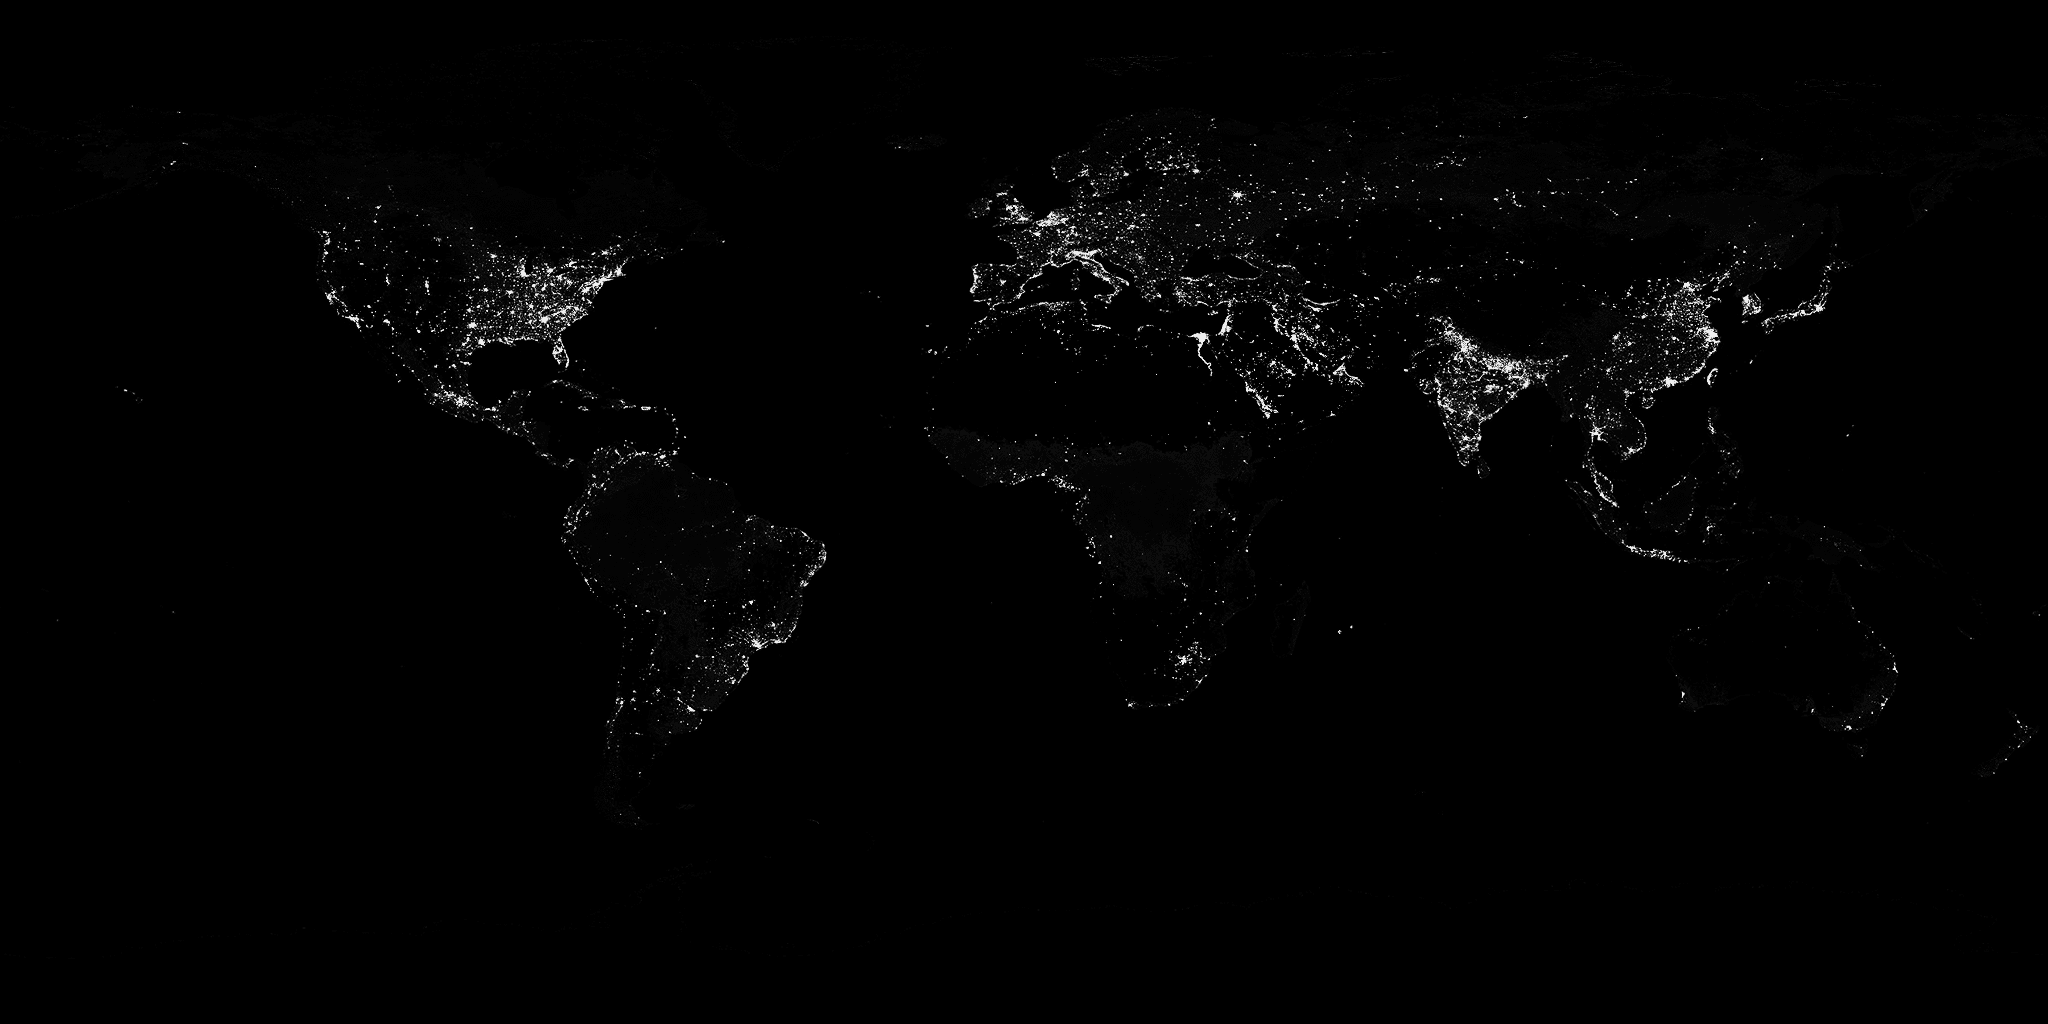
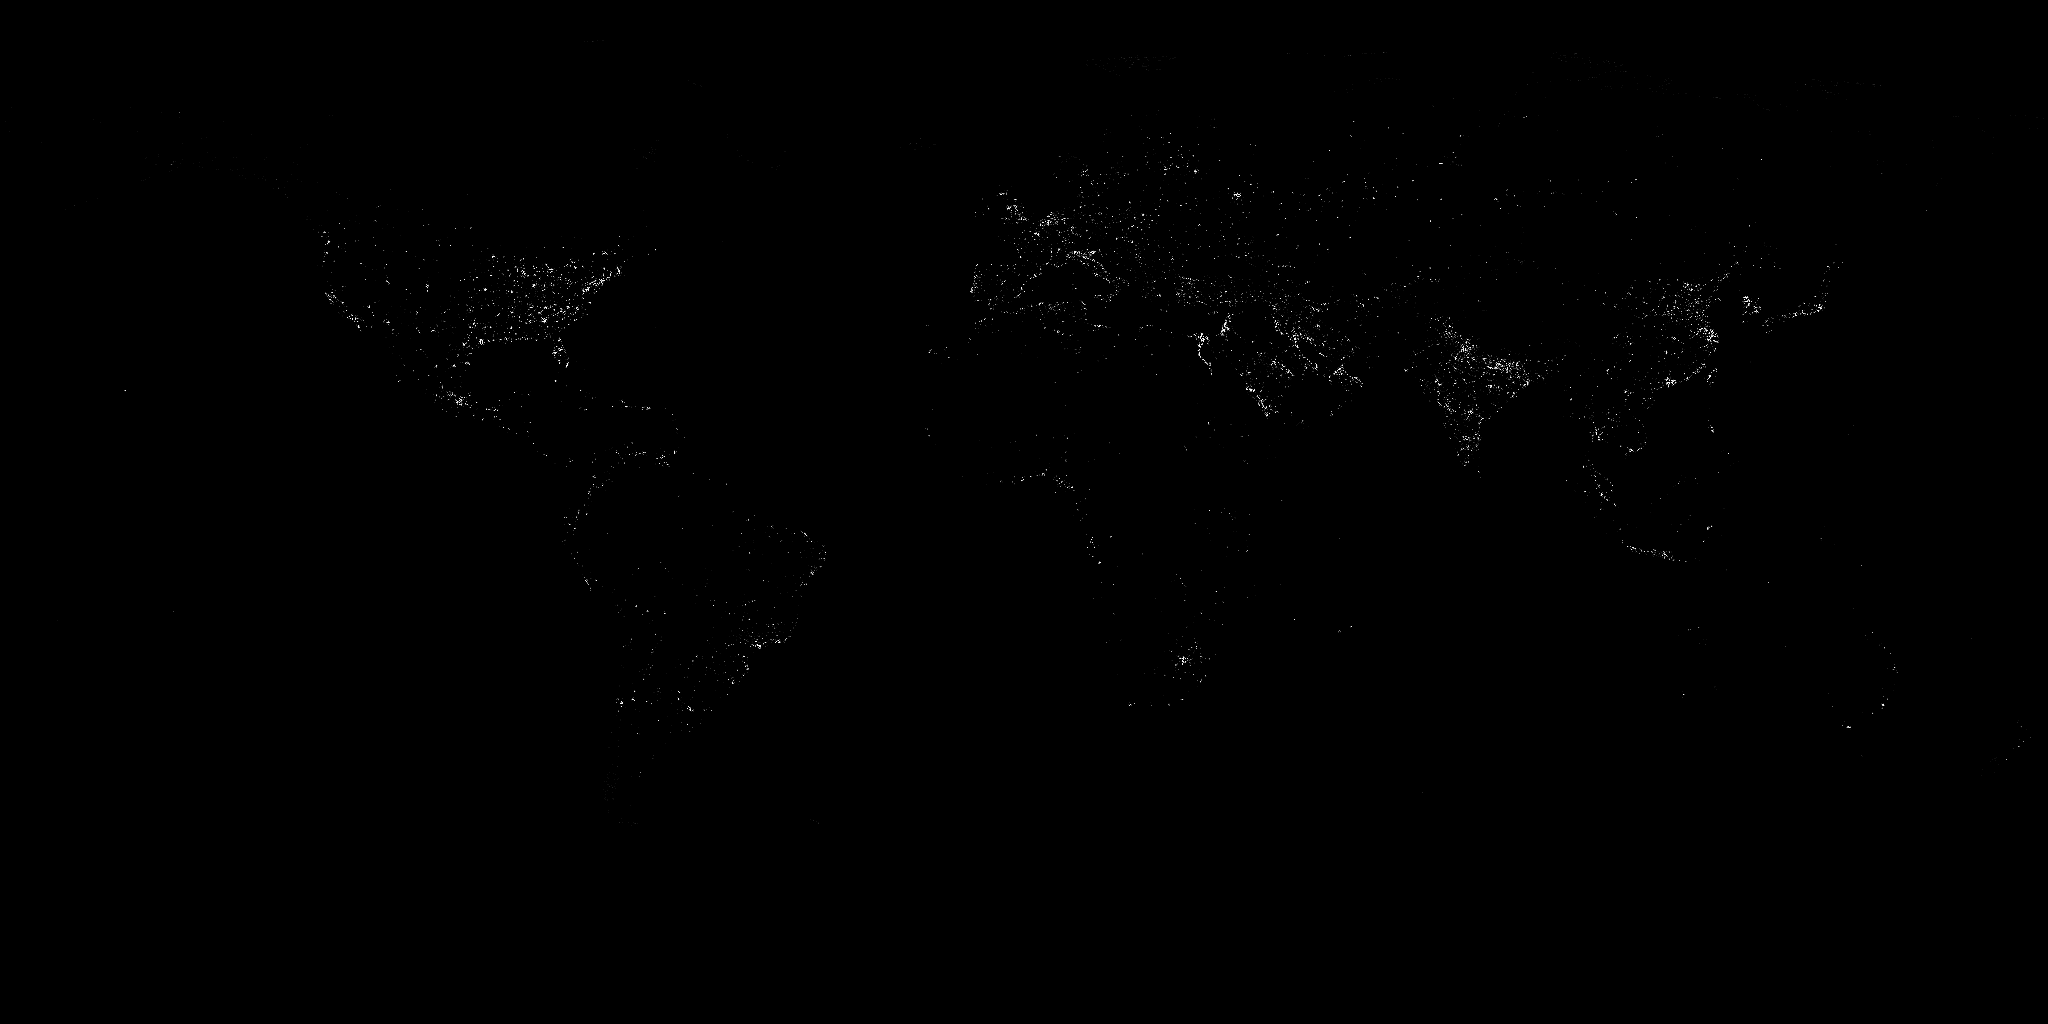
v179: new city-lights texture + bloom re-enabled; unblock /shots/ for Google
ART: operator supplied a new city_lights.png — sparser and dimmer than the first
(11,742 lit px / 0.56% vs 38,310 / 1.83%, avg luminance 0.33). CACHE-BUST BUMPED to
?v=179: the CDN/service worker cache the file aggressively, so changing the art
without changing the URL would keep serving the OLD texture.

BLOOM RE-ENABLED (operator), additive ('lighter') rather than a plain blur — a blur
only spreads the same energy so the peak drops when the map is downscaled to world
zoom; additive halos over sharp cores add brightness. Matters more now the texture is
sparser. Verified: 11.7k source lights -> 76.3k rendered px (6.5x spread), 983 bright
cores. The v178 smooth slow twinkle is unchanged.

SEARCH CONSOLE — "Blocked by robots.txt": self-inflicted. robots.txt disallowed
/shots/ and /timelapse/, but those hold the world snapshots + timelapse GIFs that the
/share/war-N pages use as og:image — so Google could not fetch our own social/rich-
result images. Both are now ALLOWED (public media, nothing sensitive). Still blocked:
/admin, /api/, /auth/.

diff --git a/pixelworld_v5.html b/pixelworld_v5.html
@@ -4159,7 +4159,7 @@ function isPlayableCountry(fi) {
 }
 // Code version — bump this every time we change client logic. Used to verify
 // what's actually deployed vs. local. Check via: window.CODE_VERSION
-const CODE_VERSION = '2026-07-28-v178';
+const CODE_VERSION = '2026-07-28-v179';
 window.CODE_VERSION = CODE_VERSION;
 console.log('PixelAnnex client', CODE_VERSION);
 // Version badge in toolbar
@@ -6966,7 +6966,7 @@ function _nightTick(){
 //   3. 'destination-out' an animated noise tile → twinkle by darkening pixels
 // Replaces v174's hash-scatter over painted pixels, which repeated visibly and
 // wrongly followed territory instead of cities. No image → no lights (clean no-op).
-const CITY_LIGHTS_URL = '/city_lights.png?v=177'; // v177: query busts a CDN/SW-cached 404
+const CITY_LIGHTS_URL = '/city_lights.png?v=179'; // v179: BUMP THIS whenever the art changes — the CDN/SW caches the old file otherwise
 let _cityLights = null, _cityLightsTried = false;
 function _bakeCityLights(img){
   const c = document.createElement('canvas'); c.width = MAP_W; c.height = MAP_H;
@@ -6983,9 +6983,22 @@ function _bakeCityLights(img){
     d[i+3] = Math.round(a * 255);
   }
   x.putImageData(im, 0, 0);
-  // v178: BLOOM REMOVED (operator) — crisp 1px city pixels, no glow halo.
-  _cityLights = c;
-  console.log('[Night] city lights baked from', CITY_LIGHTS_URL);
+  // v179: BLOOM RE-ENABLED (operator). ADDITIVE ('lighter') rather than a plain blur —
+  // a blur only SPREADS the same energy, so the peak drops when the map is downscaled
+  // to world zoom; compositing halos additively over the sharp cores adds brightness,
+  // which matters more now the texture is sparser (11.7k lit px vs 38.3k).
+  const g = document.createElement('canvas'); g.width = MAP_W; g.height = MAP_H;
+  const gx = g.getContext('2d');
+  try { gx.filter = 'blur(2.5px)'; } catch (e) {}
+  gx.drawImage(c, 0, 0);                       // wide halo (base)
+  gx.globalCompositeOperation = 'lighter';
+  try { gx.filter = 'blur(1px)'; } catch (e) {}
+  gx.drawImage(c, 0, 0);                       // + tighter glow
+  try { gx.filter = 'none'; } catch (e) {}
+  gx.drawImage(c, 0, 0);                       // + sharp centres
+  gx.globalCompositeOperation = 'source-over';
+  _cityLights = g;
+  console.log('[Night] city lights baked (additive bloom) from', CITY_LIGHTS_URL);
 }
 function _loadCityLights(){
   if (_cityLightsTried) return; _cityLightsTried = true;

diff --git a/server.js b/server.js
@@ -41,7 +41,7 @@ const xposter = require('./xposter'); // v93l: optional manual-approve X (Twitte
 
 // ── Config ────────────────────────────────────────────────────────
 const PORT               = parseInt(process.env.PORT || '3000', 10);
-const SERVER_VERSION       = '2026-07-28-v178';
+const SERVER_VERSION       = '2026-07-28-v179';
 console.log('PixelAnnex server', SERVER_VERSION);
 const MAP_W              = 2048;
 const MAP_H              = 1024;
@@ -6774,7 +6774,13 @@ const httpServer = http.createServer(async (req, res) => {
   // ── v169: SEO — robots.txt / sitemap.xml / PWA statics / crawlable pages ──
   if (url.pathname === '/robots.txt') {
     res.writeHead(200, { 'Content-Type': 'text/plain', 'Cache-Control': 'public, max-age=3600' });
-    res.end('User-agent: *\nAllow: /\nDisallow: /admin\nDisallow: /api/\nDisallow: /auth/\nDisallow: /shots/\nDisallow: /timelapse/\n\nSitemap: ' + SITE_URL + '/sitemap.xml\n');
+    // v179: /shots/ and /timelapse/ are now ALLOWED — they hold the world snapshots and
+    // timelapse GIFs that the share pages use as og:image. Blocking them meant Google
+    // could not fetch our own social/rich-result images (and Search Console flagged
+    // them as "Blocked by robots.txt"). They are public media with nothing sensitive.
+    // Still blocked: /admin (operator dashboard), /api/ (JSON endpoints, no SEO value),
+    // /auth/ (OAuth redirects — these were the "Page with redirect" reports).
+    res.end('User-agent: *\nAllow: /\nDisallow: /admin\nDisallow: /api/\nDisallow: /auth/\n\nSitemap: ' + SITE_URL + '/sitemap.xml\n');
     return;
   }
   // v171: AdSense seller authorization — Google requires this at the domain root

diff --git a/sw.js b/sw.js
@@ -9,7 +9,7 @@
  * Version bumped per release so old caches get cleared automatically.
  */
 
-const CACHE_VERSION = 'pixelannex-v2026-07-28-v178';
+const CACHE_VERSION = 'pixelannex-v2026-07-28-v179';
 const STATIC_ASSETS = [
   '/',
   '/index.html',
